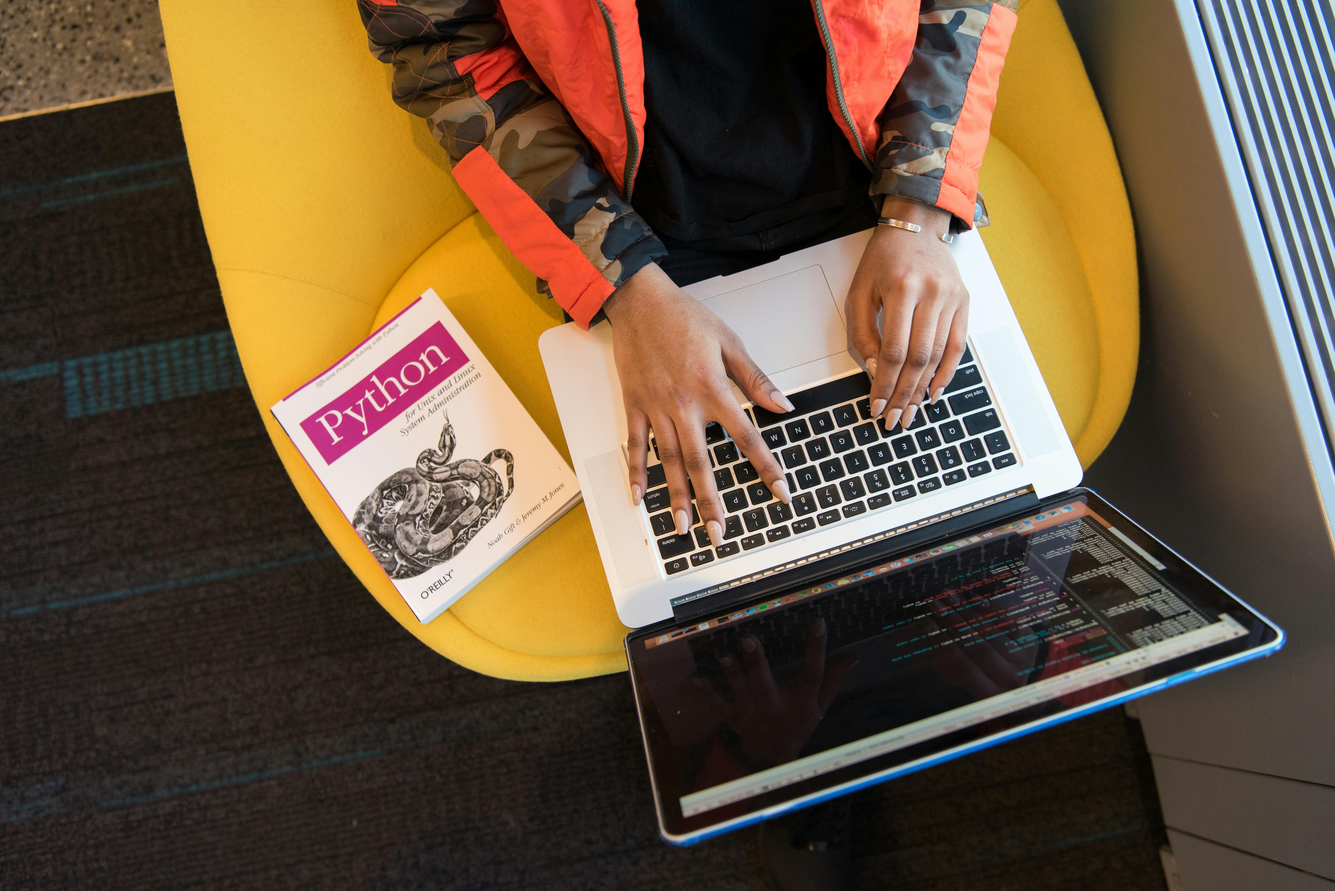
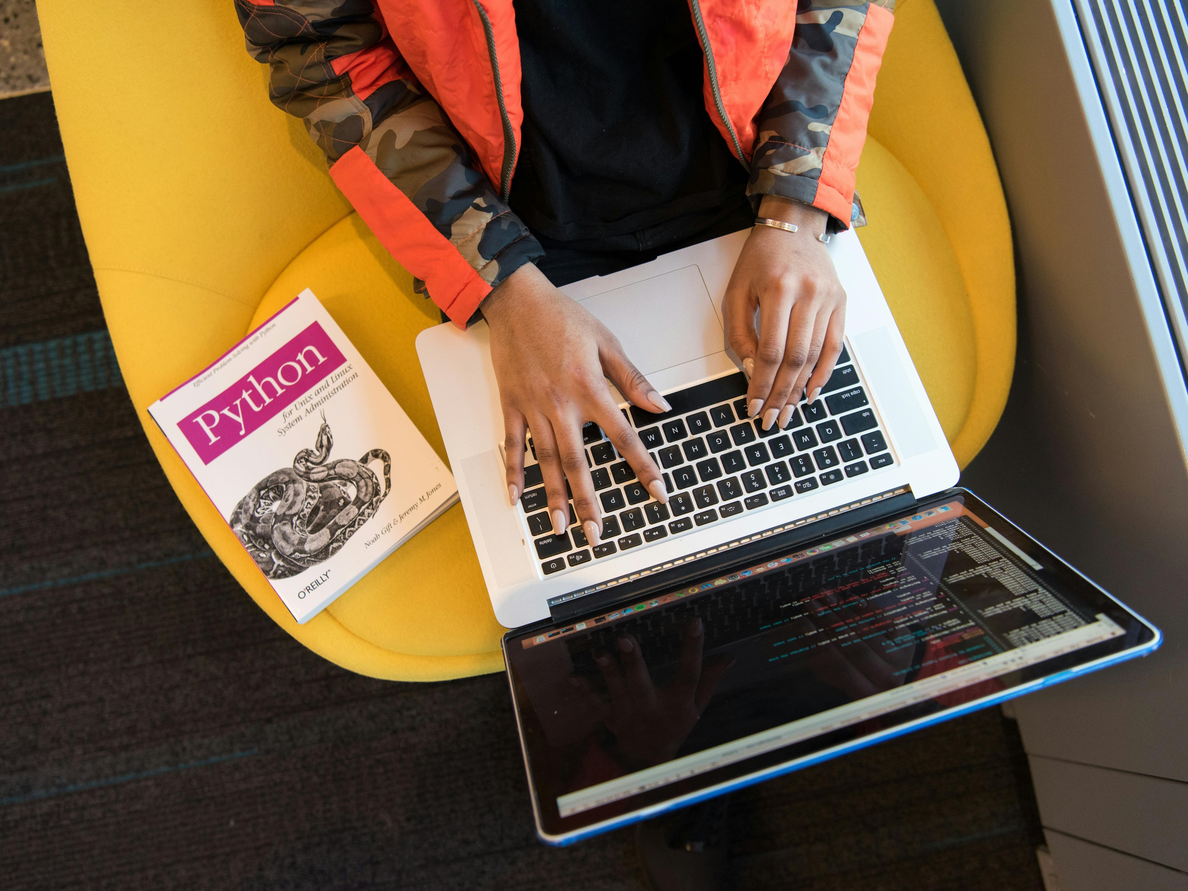
Fine-tuning of landing page

diff --git a/index.html b/index.html
@@ -60,7 +60,7 @@
 		<header>
 			<div class="container-fluid">
 				<div class="row mt-5">
-					<div class="img-fluid col-md-5">
+					<div class="img-fluid col d-none d-lg-block">
 						<img
 							src="visuals/pexels-christina-morillo-1181359.jpg"
 							alt="landing-photo"
@@ -70,18 +70,15 @@
 							class="landing-photo"
 						/>
 					</div>
-					<div class="col-md-1"></div>
-					<div class="col-md-6">
+
+					<div class="col">
 						<h1>Hi! Welcome to my page!</h1>
 						<h2>
 							My name is Anete and I am a front-end developer in-the-making.
 						</h2>
 						<p>
-							Learn more about me, my experience and my work.
-							<sup
-								><sup><i class="fa-solid fa-star-of-life"></i></sup></sup
-							>This page is built as a part of SheCodes Responsive coding
-							workshop.
+							Learn more about me, my experience and my work. *This page is
+							built as a part of SheCodes Responsive coding workshop.
 						</p>
 						<button>Contact me</button>
 					</div>
@@ -93,20 +90,18 @@
 			<div class="container">
 				<div class="row mt-5" id="home-main">
 					<div class="img-fluid col-md-4 tumblr">
-						<img
-							src="visuals/pexels-christina-morillo-1181359.jpg"
-							alt="photo1"
-						/>
-						<h3>Project 1</h3>
-						<p>Project task</p>
+						<img src="visuals/WeatherApp.png" alt="photo1" />
+						<h3>
+							<a href="https://weatherapp2024aa.netlify.app/" target="_blank"
+								>Project 1</a
+							>
+						</h3>
+						<p>Weather app with forecast SheCodes Plus</p>
 					</div>
 					<div class="img-fluid col-md-4 tumblr">
-						<img
-							src="visuals/pexels-christina-morillo-1181359.jpg"
-							alt="photo2"
-						/>
+						<img src="visuals/Basil.png" alt="photo2" />
 						<h3>Project 2</h3>
-						<p>Project task</p>
+						<p>Simple homepage using HTML, CSS & JavaScript Shecodes Basic</p>
 					</div>
 					<div class="img-fluid col-md-4 tumblr">
 						<img

diff --git a/css/style.css b/css/style.css
@@ -22,7 +22,8 @@ h2 {
 	font-weight: 400;
 	font-size: 24px;
 	color: rgb(130, 130, 130);
-	margin-top: 30px;
+	margin-top: 10px;
+	margin-bottom: 40px;
 }
 
 h3 {
@@ -49,6 +50,24 @@ button {
 li {
 	list-style: none;
 }
+
+img {
+	border-radius: 5px;
+	width: 100%;
+	height: auto;
+}
+.landing-photo {
+	padding-right: 60px;
+	opacity: 0.9;
+}
+
+.tumblr {
+	opacity: 0.7;
+}
+
+.tumblr:hover {
+	opacity: 1;
+}
 .contact-icons {
 	display: inline-block;
 	margin-right: 30px;
@@ -61,8 +80,13 @@ li {
 	line-height: 2;
 }
 
-img {
-	border-radius: 5px;
-	width: 100%;
-	height: auto;
+a {
+	text-decoration: none;
+	color: black;
+}
+
+@media (max-width: 1000px) {
+	header {
+		text-align: center;
+	}
 }
